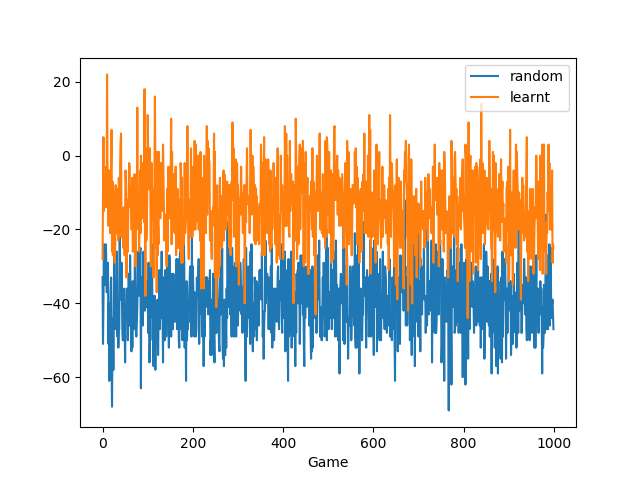
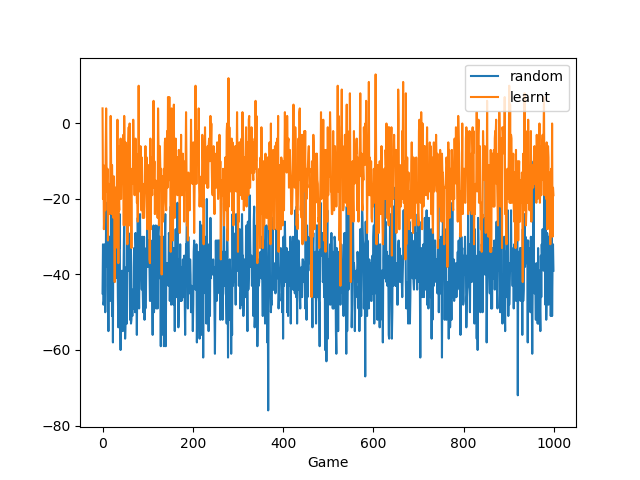
epsilon soft policy and results added

diff --git a/MontecarloepsilonsoftOnPolicy.py b/MontecarloepsilonsoftOnPolicy.py
@@ -1,0 +1,75 @@
+from MonteCarloControl import *
+
+def get_action_epsilon_soft(state, Q, epsilon):
+    if state not in Q.keys():
+        action_star = np.random.choice(range(env.action_space.n))
+        Q[state] = [0,0]
+    else:
+        action_star = np.argmax(Q[state])
+    prob = [epsilon/((env.action_space.n))]*(env.action_space.n)
+    prob[action_star] += 1 - epsilon 
+    action = np.random.choice(range(env.action_space.n), p = prob)
+    return action, Q
+
+def get_episode_epsilon_soft(env, Q, epsilon):
+    episode = []
+    state = env.reset()
+
+    while True:
+        action, Q = get_action_epsilon_soft(state, Q, epsilon)
+        next_state, reward, done, info = env.step(action) # OpenAI gym gives feedback in this tuple form : state,reward,if_done?,other relevant info
+        episode.append((state, action, reward))
+        
+        if done:
+            break
+        
+        state = next_state
+        
+
+    return episode, Q
+
+def mc_control_epsilon_soft_algorithm(iters, env, epsilon):
+    
+    # Initialize
+    Q = {}
+    Returns = {}
+    gamma = 1
+
+    for e in range(iters):
+        episode, Q = get_episode_epsilon_soft(env, Q, epsilon)
+        G = 0
+        for i in range(len(episode) - 1, -1, -1):
+
+            state = episode[i][0]
+            episode_states = [s[0] for s in episode]
+            #print(episode_states)
+            action = episode[i][1]
+            reward = episode[i][2]
+
+            R_tplus1 = reward
+            G += gamma*R_tplus1
+            #print(G)
+            if state not in episode_states[0:i-1]:
+                if state not in Returns.keys():
+                    Returns[state] = {}
+                    Returns[state][action] = []
+                    Returns[state][action].append(G)
+                elif action not in Returns[state].keys():
+                    Returns[state][action] = []
+                    Returns[state][action].append(G)
+                else:
+                    Returns[state][action].append(G)
+                #print(Returns)
+                Q[state][action] = np.mean(Returns[state][action])
+
+    return Q, Returns 
+
+if __name__ == "__main__":
+    env = gym.make('Blackjack-v0')
+    Q, Returns = mc_control_epsilon_soft_algorithm(500000, env, epsilon = 0.05)
+    # Save the policy
+    pickle.dump(Q, open( "Q_action_values_epsilon_soft.p", "wb" ) )
+    # obtain the corresponding state-value function
+    V = dict((k,np.max(v)) for k, v in Q.items())
+    # plot the state-value function
+    plot_blackjack_values(V, "MC_Control_epsilon_soft_StateValueFunction_Viz.png")

diff --git a/MonteCarloControl.py b/MonteCarloControl.py
@@ -17,13 +17,23 @@ def get_action(state, Q):
 def get_episode(env, Q):
     episode = []
     state = env.reset()
+    # To ensure exploring starts
+    action = np.random.choice(range(env.action_space.n)) 
+    if state not in Q.keys():
+        Q[state] = [0,0]
+    
+
     while True:
-        action, Q = get_action(state, Q)
+        
         next_state, reward, done, info = env.step(action) # OpenAI gym gives feedback in this tuple form : state,reward,if_done?,other relevant info
         episode.append((state, action, reward))
-        state = next_state
+        
         if done:
             break
+        
+        state = next_state
+        action, Q = get_action(state, Q)
+
     return episode, Q
 
 def mc_control_algorithm(iters, env):
@@ -62,7 +72,7 @@ def mc_control_algorithm(iters, env):
 
     return Q, Returns 
 
-def plot_blackjack_values(V):
+def plot_blackjack_values(V, filename):
     
     def get_Z(x, y, usable_ace):
         if (x,y,usable_ace) in V:
@@ -90,7 +100,7 @@ def plot_blackjack_values(V):
     ax = fig.add_subplot(212, projection='3d')
     ax.set_title('No Usable Ace')
     get_figure(False, ax)
-    plt.savefig('MC_Control_StateValueFunction_Viz.png')
+    plt.savefig(filename)
     plt.show()
     
 if __name__ == "__main__":
@@ -101,6 +111,6 @@ if __name__ == "__main__":
     # obtain the corresponding state-value function
     V = dict((k,np.max(v)) for k, v in Q.items())
     # plot the state-value function
-    plot_blackjack_values(V)
+    plot_blackjack_values(V, "MC_Control_StateValueFunction_Viz.png")
 
     
